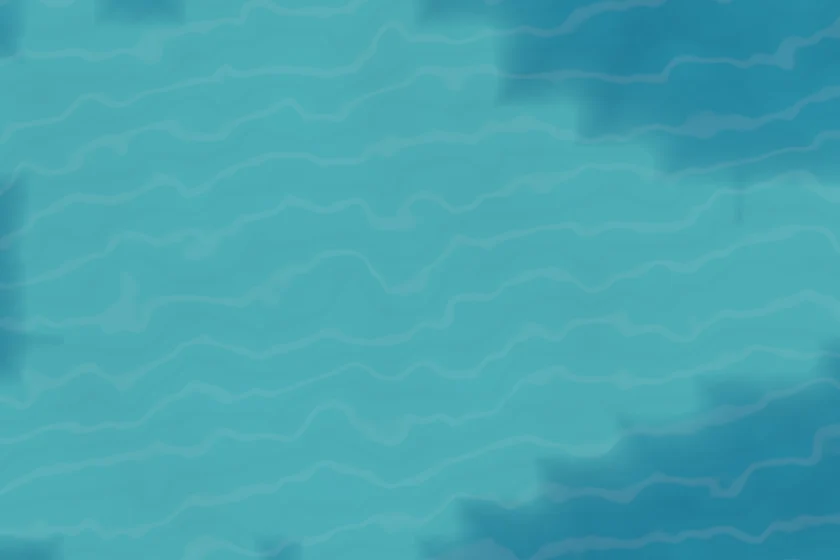
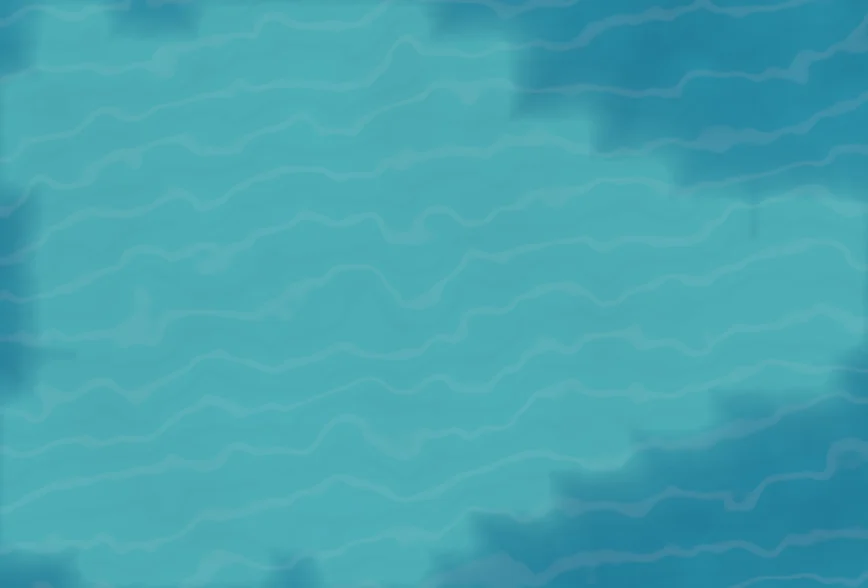
Mexica: the lake runs round the island past the board's edge
The island's land runs to the printed board's edge on every side, and
its shore was drawn there as if water lay beyond, but the lake stopped
at the edge, so the island looked cut off, most of all along the top.
The lake, the shore and the paving's coastal stones are now drawn 14
units past the edge (a third of a square, the user's choice), the coast
narrowing towards the edge to end short of the lake's rim, and the
frame and coordinates make room for it.

diff --git a/games/mexica-ui/src/lib/board/surfaceTexture.ts b/games/mexica-ui/src/lib/board/surfaceTexture.ts
@@ -1,7 +1,7 @@
 // The island's paving and the lake round it, seen from straight above in plan units. Only
 // scripts/render-looks.mjs runs this, through the /looks page; rerun it after changing either.
 import { cellAt, columnOf, isLand, isPalace, isStart, PALACE_CENTRE, rowOf } from '@tabletop/mexica'
-import { CELL } from './view.js'
+import { CELL, LAKE_MARGIN } from './view.js'
 import { COVE_TOE, SLOPE_WIDTH, type SlopeCorner, type SlopeSide } from './looks.js'
 import {
     spillBox,
@@ -11,7 +11,7 @@ import {
     spillSlide,
     toPlan
 } from './spillShape.js'
-import { PLAN } from './plan.js'
+import { PLAN, WATERS } from './plan.js'
 import {
     type Bitmap,
     clamp,
@@ -71,7 +71,7 @@ export function renderPaving(style: StoneStyle, pixels = PAVING_PIXELS): Bitmap 
         }
         return values
     }
-    return paint(PLAN, pixels, (x, y) => {
+    return paint(WATERS, pixels, (x, y) => {
         const cell = landAt(x, y) ?? nearestLand(x, y, coastReach(x, y))
         if (cell === undefined) return { color: [0, 0, 0], alpha: 0 }
         const [tone, slopeX, slopeY, inset] = draws(cell)
@@ -123,7 +123,18 @@ const COAST = { least: 1.5, most: 7.5, corner: 7 }
 const coastNoise = fractal(noise2(97), 3)
 
 function coastReach(x: number, y: number): number {
-    return COAST.least + (COAST.most - COAST.least) * coastNoise(x * 0.04, y * 0.04)
+    return (
+        (COAST.least + (COAST.most - COAST.least) * coastNoise(x * 0.04, y * 0.04)) * edgeFit(x, y)
+    )
+}
+
+// Past the printed board's edge the lake is only LAKE_MARGIN wide, so the coast and its rocks are
+// narrowed towards the edge to end short of the lake's rim; inside, they reach as far as they like.
+const RIM_CLEARANCE = 3
+function edgeFit(x: number, y: number): number {
+    const inside = Math.min(x, y, PLAN.width - x, PLAN.height - y)
+    const room = LAKE_MARGIN - RIM_CLEARANCE + Math.max(0, inside)
+    return Math.min(1, room / (COAST.most + SHORE.widest))
 }
 
 function lakeBeside(cell: number, column: number, row: number): boolean {
@@ -232,7 +243,7 @@ function water(style: WaterStyle): (x: number, y: number, shallows: number) => R
 
 export function renderLake(style: WaterStyle, pixels = LAKE_PIXELS): Bitmap {
     const at = water(style)
-    return paint(PLAN, pixels, (x, y) => ({
+    return paint(WATERS, pixels, (x, y) => ({
         color: at(
             x,
             y,
@@ -433,7 +444,10 @@ export function shoreDepth(x: number, y: number): number {
 export const SHORE_ZONE = COAST.most + SHORE.widest * 1.5 + 1
 
 function shoreWidth(x: number, y: number): number {
-    return SHORE.narrowest + (SHORE.widest - SHORE.narrowest) * shoreReach(x * 0.035, y * 0.035)
+    return (
+        (SHORE.narrowest + (SHORE.widest - SHORE.narrowest) * shoreReach(x * 0.035, y * 0.035)) *
+        edgeFit(x, y)
+    )
 }
 
 // How far a point lies out from the island's wandering edge, not the grid's.
@@ -498,7 +512,7 @@ export function renderShore(pixels = SHORE_PIXELS): Bitmap {
             tone: 0.5 + 0.5 * Math.sin(angle * 9)
         }
     }
-    return paint(PLAN, pixels, (x, y) => {
+    return paint(WATERS, pixels, (x, y) => {
         const off = offshore(x, y)
         if (off < -1.5 || off > SHORE.widest * 1.5) return { color: [0, 0, 0], alpha: 0 }
         const band = width(x, y)

diff --git a/games/mexica-ui/src/lib/board/view.ts b/games/mexica-ui/src/lib/board/view.ts
@@ -21,6 +21,9 @@ const LABEL_SIZE = 12
 const LABEL_GAP = 8
 const LABEL_REACH = LABEL_SIZE * 0.9
 const EDGE_MARGIN = 10
+// The lake reaches this far past the printed board's edge all round, so where the island's land
+// runs to the edge its shore meets water, not the table.
+export const LAKE_MARGIN = 14
 
 export type Box = { x: number; y: number; width: number; height: number }
 
@@ -171,7 +174,8 @@ export class BoardView {
         // Beside the board a label is aligned to its edge, at the gap; above or below it is
         // centred on its column.
         const beyond = (plan: Point, outward: Point): Pick<Label, 'at' | 'anchor'> => {
-            const at = this.at(plan.x, plan.y)
+            const margin = LAKE_MARGIN / CELL
+            const at = this.at(plan.x + outward.x * margin, plan.y + outward.y * margin)
             const { dx, dy } = screenWay(plan, outward)
             const reach = LABEL_GAP + (dx === 0 ? LABEL_REACH / 2 : 0)
             return {
@@ -219,13 +223,19 @@ export class BoardView {
             const left = label.anchor === 'end' ? width : label.anchor === 'middle' ? width / 2 : 0
             return { left: label.at.x - left, right: label.at.x - left + width, y: label.at.y }
         })
-        const left = Math.min(0, ...extents.map((extent) => extent.left)) - EDGE_MARGIN
-        const right = Math.max(this.width, ...extents.map((extent) => extent.right)) + EDGE_MARGIN
+        const margin = LAKE_MARGIN / CELL
+        const lake = this.planBox(-margin, -margin, BOARD_WIDTH + margin, BOARD_HEIGHT + margin)
+        const left = Math.min(lake.x, ...extents.map((extent) => extent.left)) - EDGE_MARGIN
+        const right =
+            Math.max(lake.x + lake.width, ...extents.map((extent) => extent.right)) + EDGE_MARGIN
         const top =
-            Math.min(-this.headroom, ...extents.map((extent) => extent.y - LABEL_REACH / 2)) -
-            EDGE_MARGIN
+            Math.min(
+                -this.headroom,
+                lake.y,
+                ...extents.map((extent) => extent.y - LABEL_REACH / 2)
+            ) - EDGE_MARGIN
         const bottom =
-            Math.max(this.depth, ...extents.map((extent) => extent.y + LABEL_REACH / 2)) +
+            Math.max(lake.y + lake.height, ...extents.map((extent) => extent.y + LABEL_REACH / 2)) +
             EDGE_MARGIN
         return { x: left, y: top, width: right - left, height: bottom - top }
     }

diff --git a/games/mexica-ui/src/lib/components/Board.svelte b/games/mexica-ui/src/lib/components/Board.svelte
@@ -35,7 +35,7 @@
     import { DESIGN, templeBounds } from '$lib/board/templeShape.js'
     import { templeMark } from '$lib/board/templeMarks.js'
     import TempleMarks from './TempleMarks.svelte'
-    import { PLAN } from '$lib/board/plan.js'
+    import { PLAN, WATERS } from '$lib/board/plan.js'
     import {
         TOKEN,
         TOKEN_INK,
@@ -338,18 +338,22 @@
         </defs>
 
         <g transform={view.planTransform}>
-            <image href={LOOK_URLS[LAKE_LOOK]} {...PLAN} preserveAspectRatio="none" class="surface"
+            <image
+                href={LOOK_URLS[LAKE_LOOK]}
+                {...WATERS}
+                preserveAspectRatio="none"
+                class="surface"
             ></image>
             <g clip-path="url(#mx-land-clip)">
                 <image
                     href={LOOK_URLS[SHORE_LOOK]}
-                    {...PLAN}
+                    {...WATERS}
                     preserveAspectRatio="none"
                     class="surface"
                 ></image>
                 <image
                     href={LOOK_URLS[PAVING_LOOK]}
-                    {...PLAN}
+                    {...WATERS}
                     preserveAspectRatio="none"
                     class="surface"
                 ></image>
@@ -408,7 +412,7 @@
             {#each animator.floods as flood (flood.key)}
                 <image
                     href={LOOK_URLS[PAVING_LOOK]}
-                    {...PLAN}
+                    {...WATERS}
                     preserveAspectRatio="none"
                     mask="url(#mx-dig-{flood.key})"
                     class="surface"

diff --git a/games/mexica-ui/src/lib/board/plan.ts b/games/mexica-ui/src/lib/board/plan.ts
@@ -1,5 +1,13 @@
 import { BOARD_HEIGHT, BOARD_WIDTH } from '@tabletop/mexica'
-import { CELL, type Box } from './view.js'
+import { CELL, type Box, LAKE_MARGIN } from './view.js'
 
 // The printed board seen from straight above, in board units.
 export const PLAN: Box = { x: 0, y: 0, width: BOARD_WIDTH * CELL, height: BOARD_HEIGHT * CELL }
+
+// The lake, reaching past the printed board's edge all round.
+export const WATERS: Box = {
+    x: -LAKE_MARGIN,
+    y: -LAKE_MARGIN,
+    width: PLAN.width + 2 * LAKE_MARGIN,
+    height: PLAN.height + 2 * LAKE_MARGIN
+}
